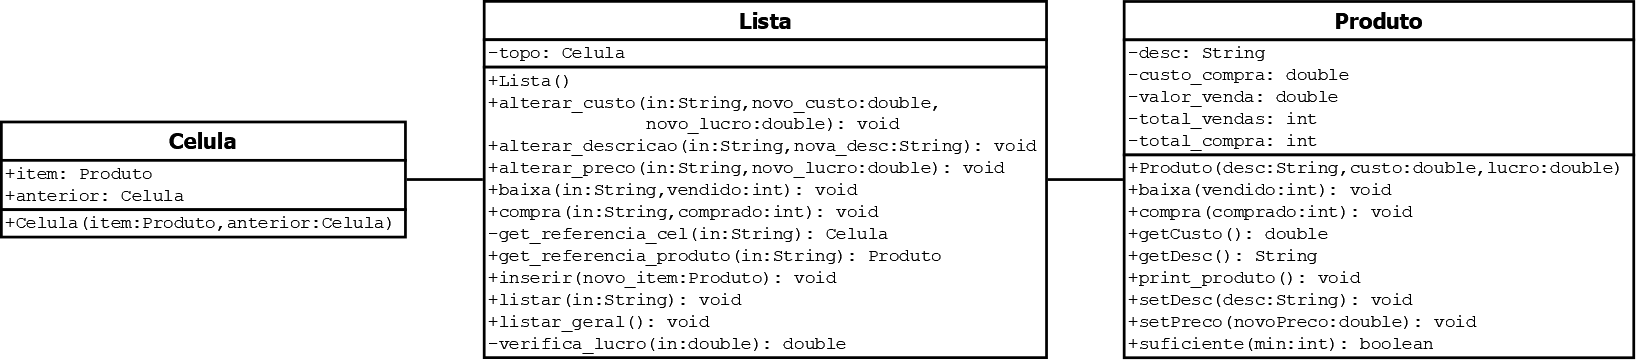
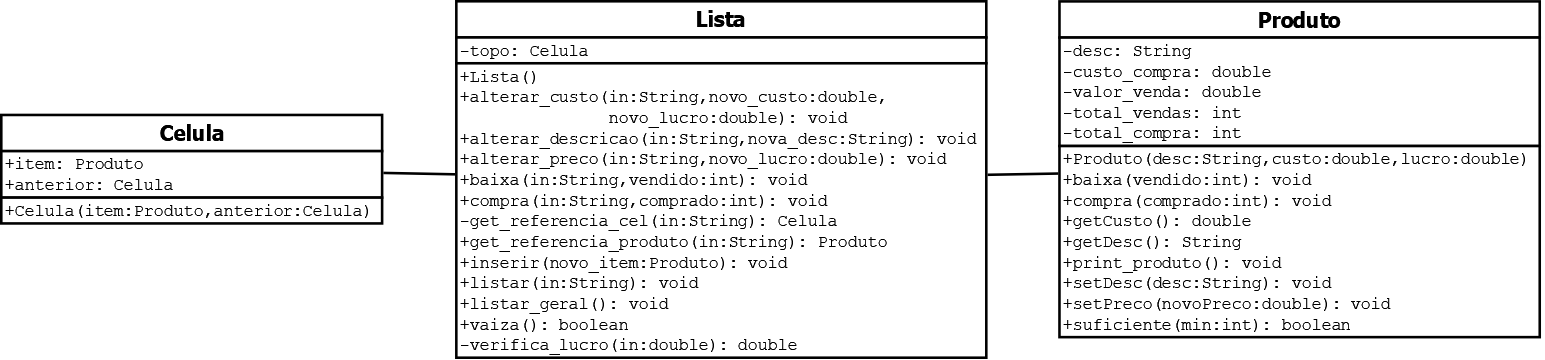
Classe Lista #2 #4

diff --git a/codigo/Lista.java b/codigo/Lista.java
@@ -10,7 +10,52 @@ public class Lista {
 	 * Construtor da classe que cria uma lista com o topo como sentinela
 	 */
 	Lista() {
-		this.topo = new Celula(null, null);
+		this.topo = new Celula(null,null);
+	}
+
+	// metodos privados
+
+	/**
+	 * Verifica se o lucro esta entre 30 e 80, usado em
+	 * {@link #alterar_preco(String, double)} e
+	 * {@link #alterar_custo(String, double, double)}
+	 *
+	 * @param in lucro
+	 * @return lucro
+	 * @throws Exception caso o lucro seja invalido
+	 */
+	private double verifica_lucro(double in) throws Exception {
+		if (in < 30 || in > 80)
+			throw new Exception("\n Margem de lucro invalida, apenas entre 30 e 80");
+		return in;
+	}
+
+	/**
+	 * Retorna a referencia para uma celula, usado em
+	 * {@link #get_referencia_produto(String)}
+	 *
+	 * @param in nome do produto
+	 * @return referencia para a celula ou null caso nao seja encontrada
+	 */
+	private Celula get_referencia_cel(String in) {
+		Celula out = this.topo.anterior;
+		while (out != null && !out.item.getDesc().equalsIgnoreCase(in))
+			out = out.anterior;
+		return out;
+	}
+
+	// fim dos metodos privados
+
+	/**
+	 * @param in nome do produto
+	 * @return Referencia para o produto
+	 * @throws Exception caso o produto nao seja encontrado
+	 */
+	Produto get_referencia_produto(String in) throws Exception {
+		Celula out = get_referencia_cel(in);
+		if (out == null)
+			throw new Exception("\n Erro, produto nao encontrado");
+		return out.item;
 	}
 
 	/**
@@ -20,19 +65,99 @@ public class Lista {
 	 * @throws Exception caso o produto ja exista
 	 */
 	void inserir(Produto novo_item) throws Exception {
-		if (get_referencia_cel(novo_item.getDesc()) != null) // verifica se o produto ja existe
+		if (get_referencia_cel(novo_item.getDesc()) != null)
 			throw new Exception("\n Erro, produto ja existente");
-		this.topo.anterior = new Celula(novo_item, this.topo.anterior); // insere antecessor ao topo sentinela, passando
-																		// o antigo como anterior do novo item
+		this.topo.anterior = new Celula(novo_item, this.topo.anterior);
+	}
+
+	/**
+	 * Altera o custo de venda do produto
+	 *
+	 * @param in         nome do produto
+	 * @param novo_lucro novo lucro
+	 * @throws Exception caso o produto nao seja encontrado ou o novo lucro seja
+	 *                   invalido
+	 */
+	void alterar_preco(String in, double novo_lucro) throws Exception {
+		Produto ref = get_referencia_produto(in);
+		ref.setPreco(ref.getCusto() * 1.18 * verifica_lucro(novo_lucro) / 100);
+	}
+
+	/**
+	 * Altera o custo de compra do produto
+	 *
+	 * @param in         nome do produto
+	 * @param novo_custo novo custo de compra
+	 * @param novo_lucro novo lucro
+	 * @throws Exception caso o produto nao seja encontrado ou o novo lucro seja
+	 *                   invalido
+	 */
+	void alterar_custo(String in, double novo_custo, double novo_lucro) throws Exception {
+		get_referencia_produto(in).setPreco(novo_custo * 1.18 * verifica_lucro(novo_lucro) / 100);
+	}
+
+	/**
+	 * Altera a descricao do produto
+	 *
+	 * @param in       nome do produto
+	 * @param novaDesc nova descricao
+	 * @throws Exception caso o produto nao seja encontrado ou o novo nome seja
+	 *                   invalido
+	 */
+	void alterar_descricao(String in, String nova_desc) throws Exception {
+		if (nova_desc.length() < 3)
+			throw new Exception("\n Nome invalido, menor que 3 caracteres");
+		get_referencia_produto(in).setDesc(nova_desc);
+	}
+
+	/**
+	 * Incrementa o total de vendas do produto
+	 *
+	 * @param in nome do produto
+	 * @throws Exception caso o produto nao seja encontrado
+	 */
+	void baixa(String in, int vendido) throws Exception {
+		try {
+			get_referencia_produto(in).baixa(vendido);
+		} catch (Exception e) {
+			throw new Exception("\n Erro, nao ha " + in + " o suficiente");
+		}
+	}
+
+	/**
+	 * Incrementa o total de compras do produto
+	 *
+	 * @param in       nome do produto
+	 * @param comprado quantidade comprada
+	 * @throws Exception caso o produto nao seja encontrado
+	 */
+	void compra(String in, int comprado) throws Exception {
+		get_referencia_produto(in).compra(comprado);
+	}
+
+	/**
+	 * @return true se a lista estiver vazia, false caso contrario
+	 */
+	boolean vazia() {
+		return this.topo.anterior == null;
+	}
+
+	/**
+	 * Printa as informacoes do produto
+	 *
+	 * @param in nome do produto
+	 * @throws Exception caso o produto nao seja encontrado
+	 */
+	void listar(String in) throws Exception {
+		get_referencia_produto(in).print_produto();
 	}
 
 	/**
 	 * Printa as informacoes de todos os produtos
 	 *
 	 */
-	void listar() {
-		for (Celula tmp = this.topo.anterior; tmp != null; tmp = tmp.anterior) // percorre a lista em ordem contraria a
-																				// de insercao
+	void listar_geral() {
+		for (Celula tmp = this.topo.anterior; tmp != null; tmp = tmp.anterior)
 			tmp.item.print_produto();
 	}
 }
